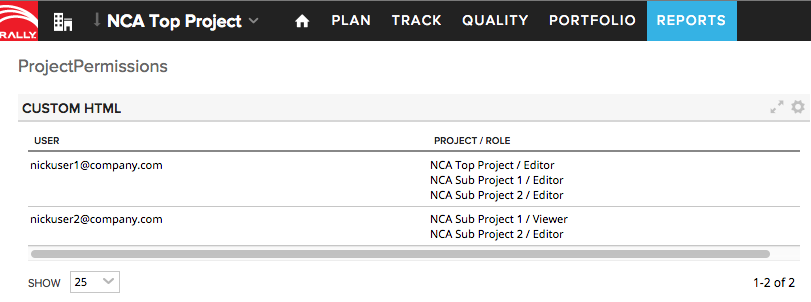
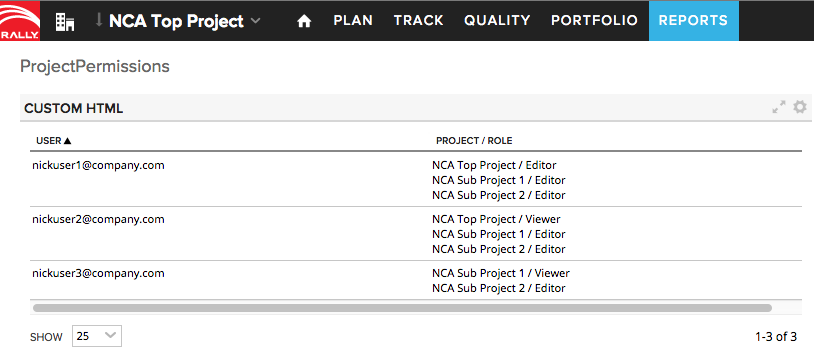
updated Readme

Changed region(s): [[0.0308, 0.2682, 1.0, 1.0], [0.0, 0.0, 1.0, 0.2384], [0.9248, 0.9238, 0.9864, 0.9834]]

diff --git a/README.md b/README.md
@@ -10,7 +10,7 @@ If you run as a Workspace Admin, it will grab all ProjectPermissions in the Work
 Unlike most WSAPI endpoints, ProjectPermissions endpoint doesn't acccept any query filter.
 It can be a dangerous query to run because of this.For workspaces with thousands of users and hundreds of projects, hitting this endpoint can end up creating a DB query that's accessing hundreds of thousands of rows.
 
-The screenshot above captures a run of this app by a workspace administrator of a small workspace with two users.
+The screenshot above captures a run of this app by a workspace administrator of a small workspace with three users.
 
 This app is not part of Rally App Catalog and is not supported by Rally. It is available AS IS.
 
